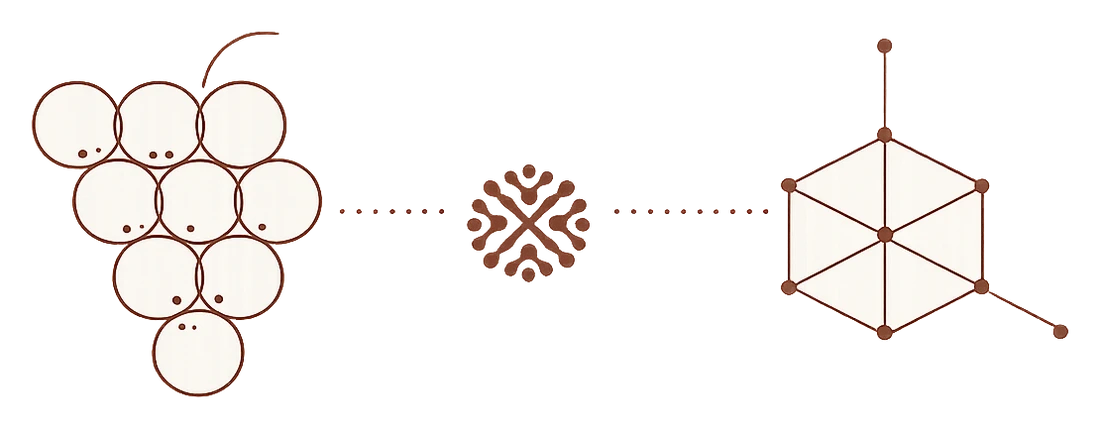
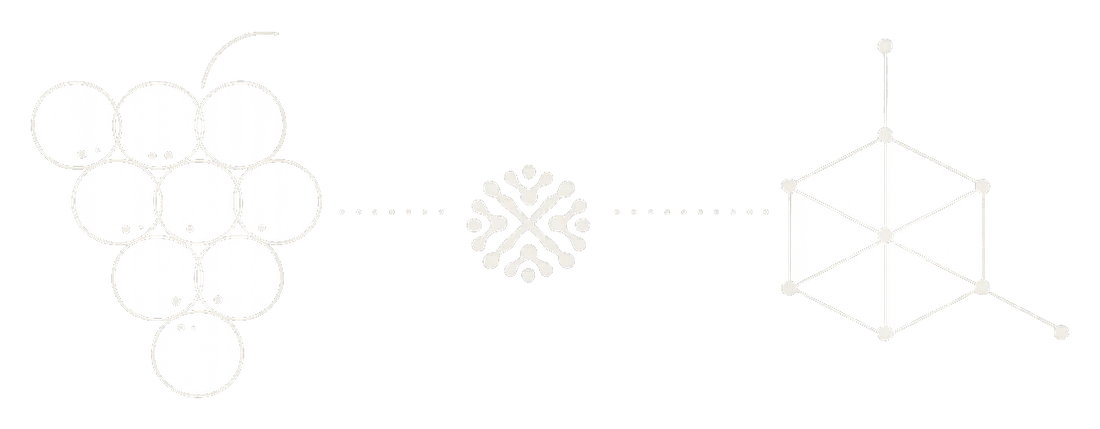
v2 home: keep orange origin panel; recolor finalized proven-in-wine graphic to cream line art so it reads on the accent background

diff --git a/v2/index.html b/v2/index.html
@@ -688,8 +688,8 @@
           <a class="btn btn-ghost btn-arrow" style="border-color:rgba(244,240,234,0.4); color:var(--paper);" href="wine.html">See the wine work</a>
         </div>
       </div>
-      <div class="right" aria-hidden="true" style="background: var(--surface); align-items:center; justify-content:center;">
-        <span class="badge" style="color: var(--muted);">Proven in wine</span>
+      <div class="right" aria-hidden="true" style="align-items:center; justify-content:center;">
+        <span class="badge">Proven in wine</span>
         <img src="assets/graphics/proven-in-wine.webp" alt="Grapes connected through the Tastry mark to a molecule: wine chemistry, proven." style="width:86%; height:auto; display:block;"/>
       </div>
     </div>